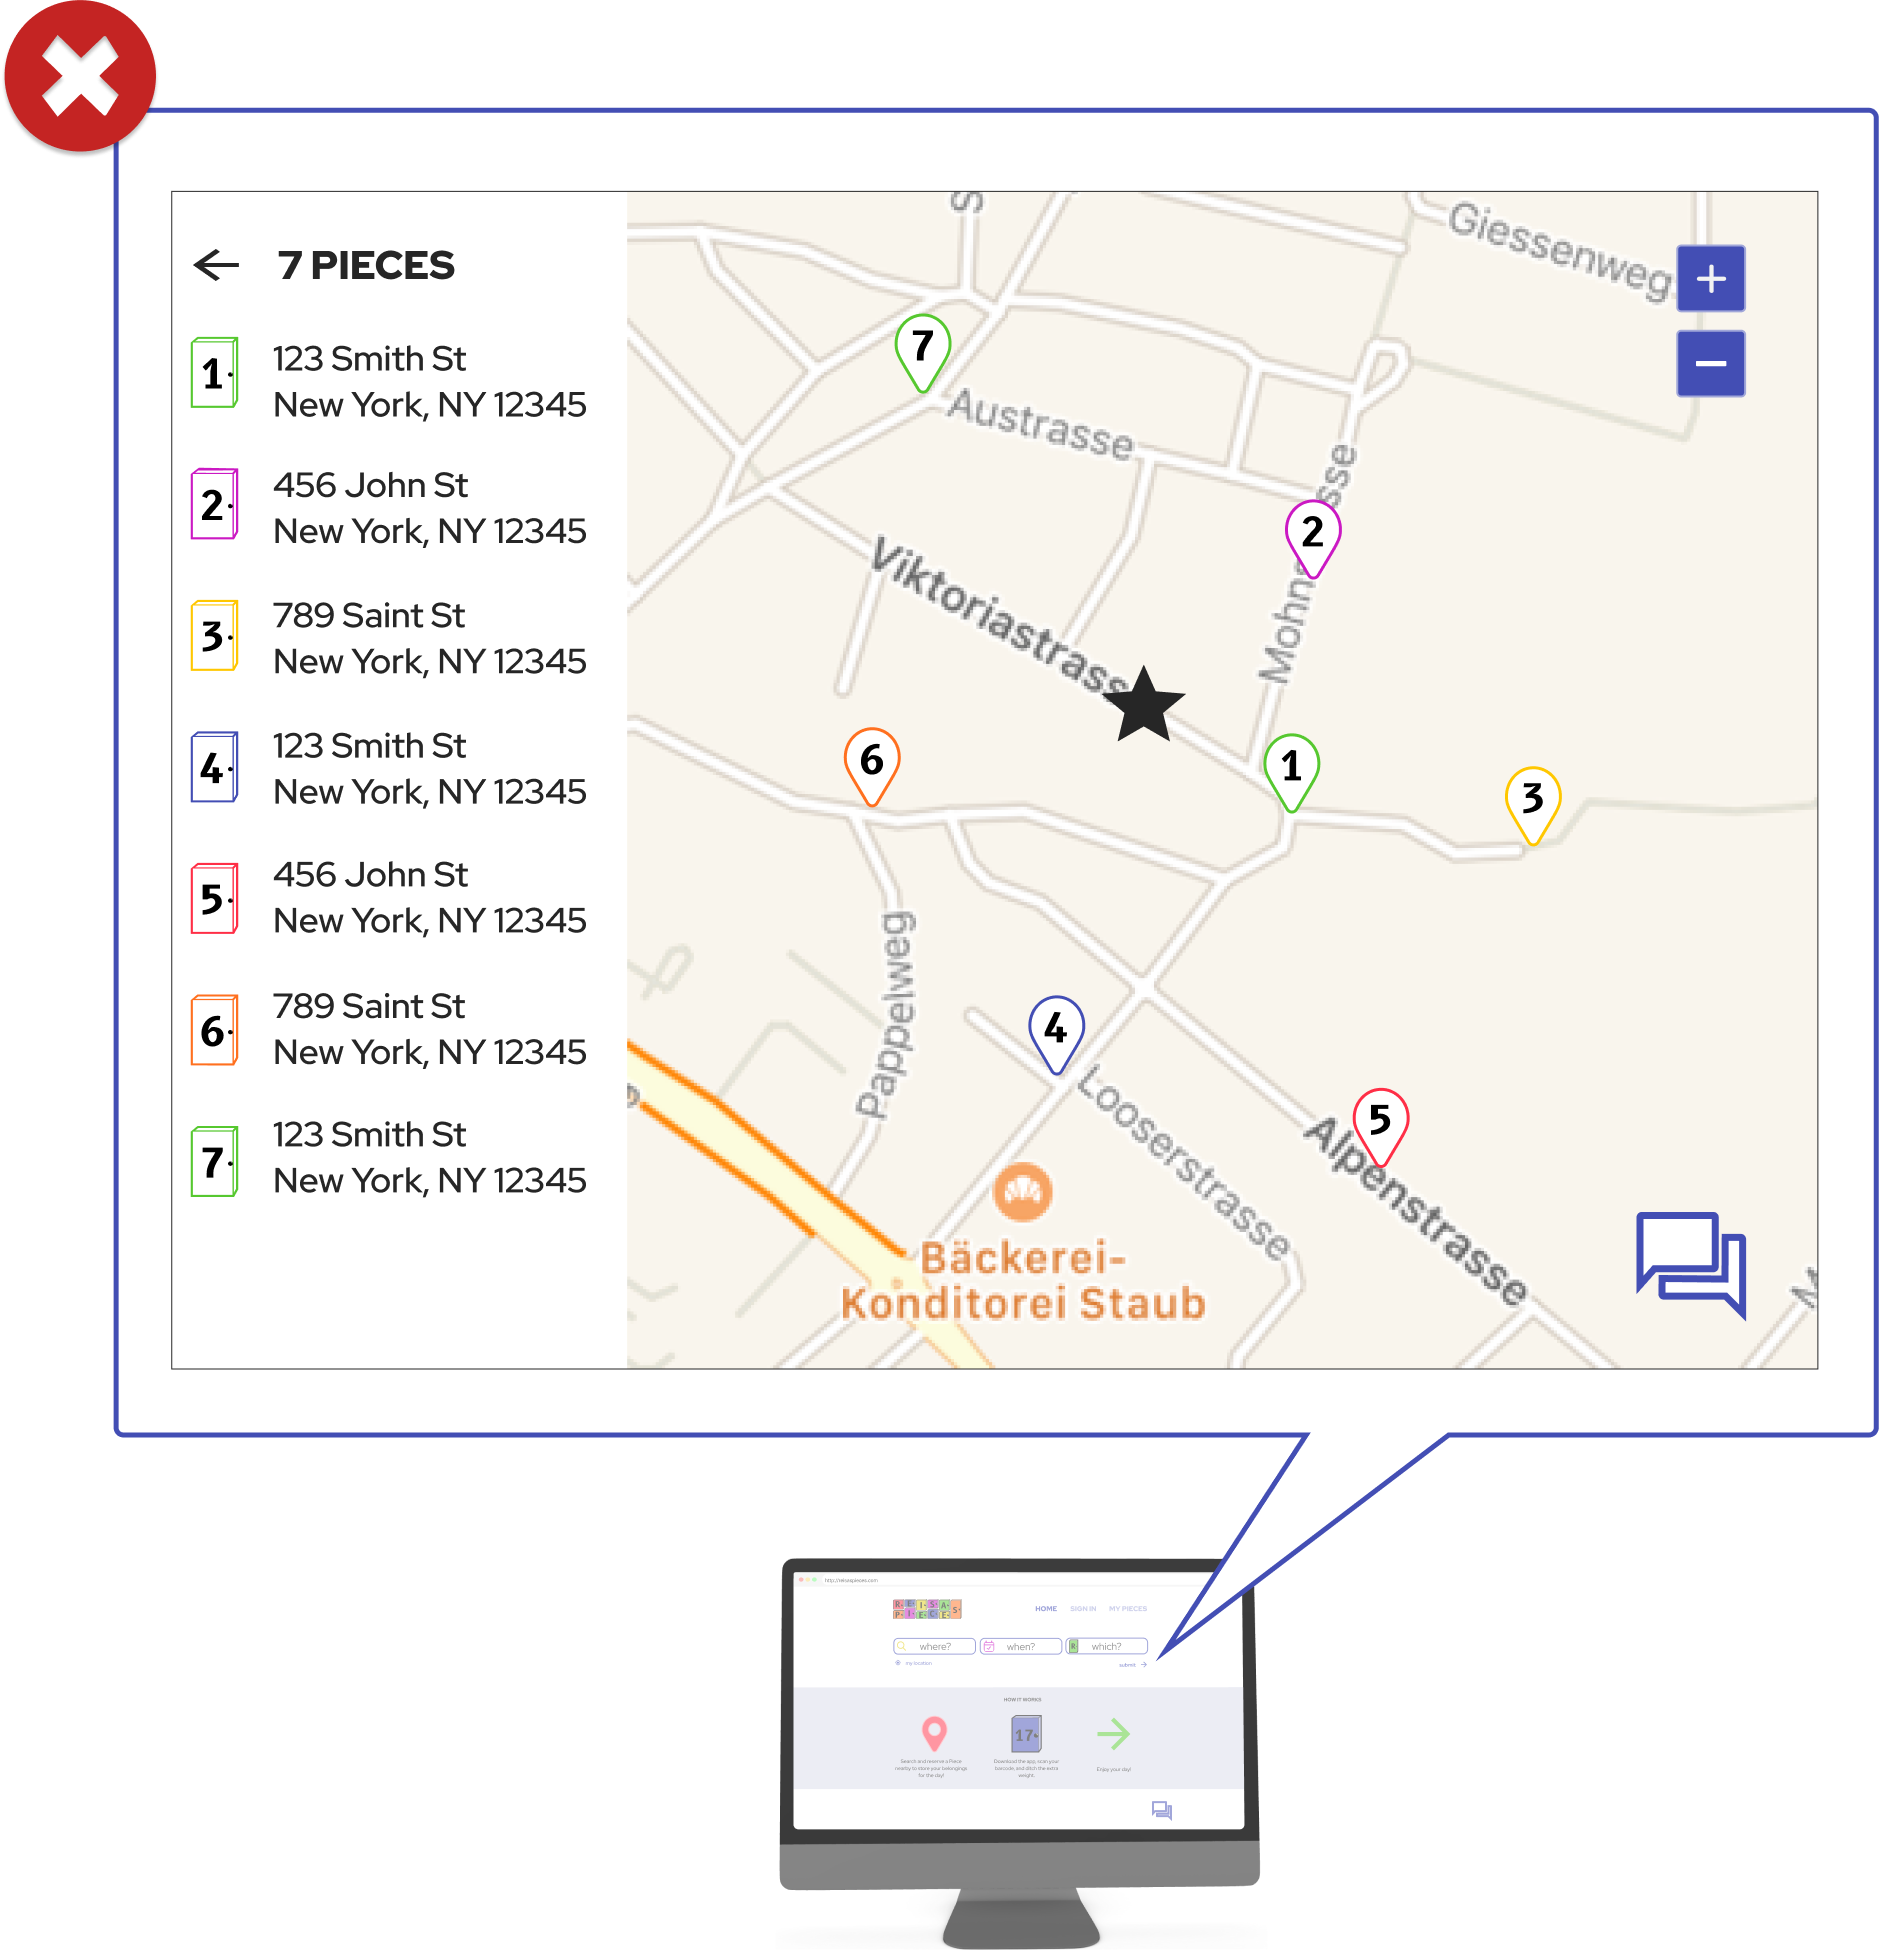
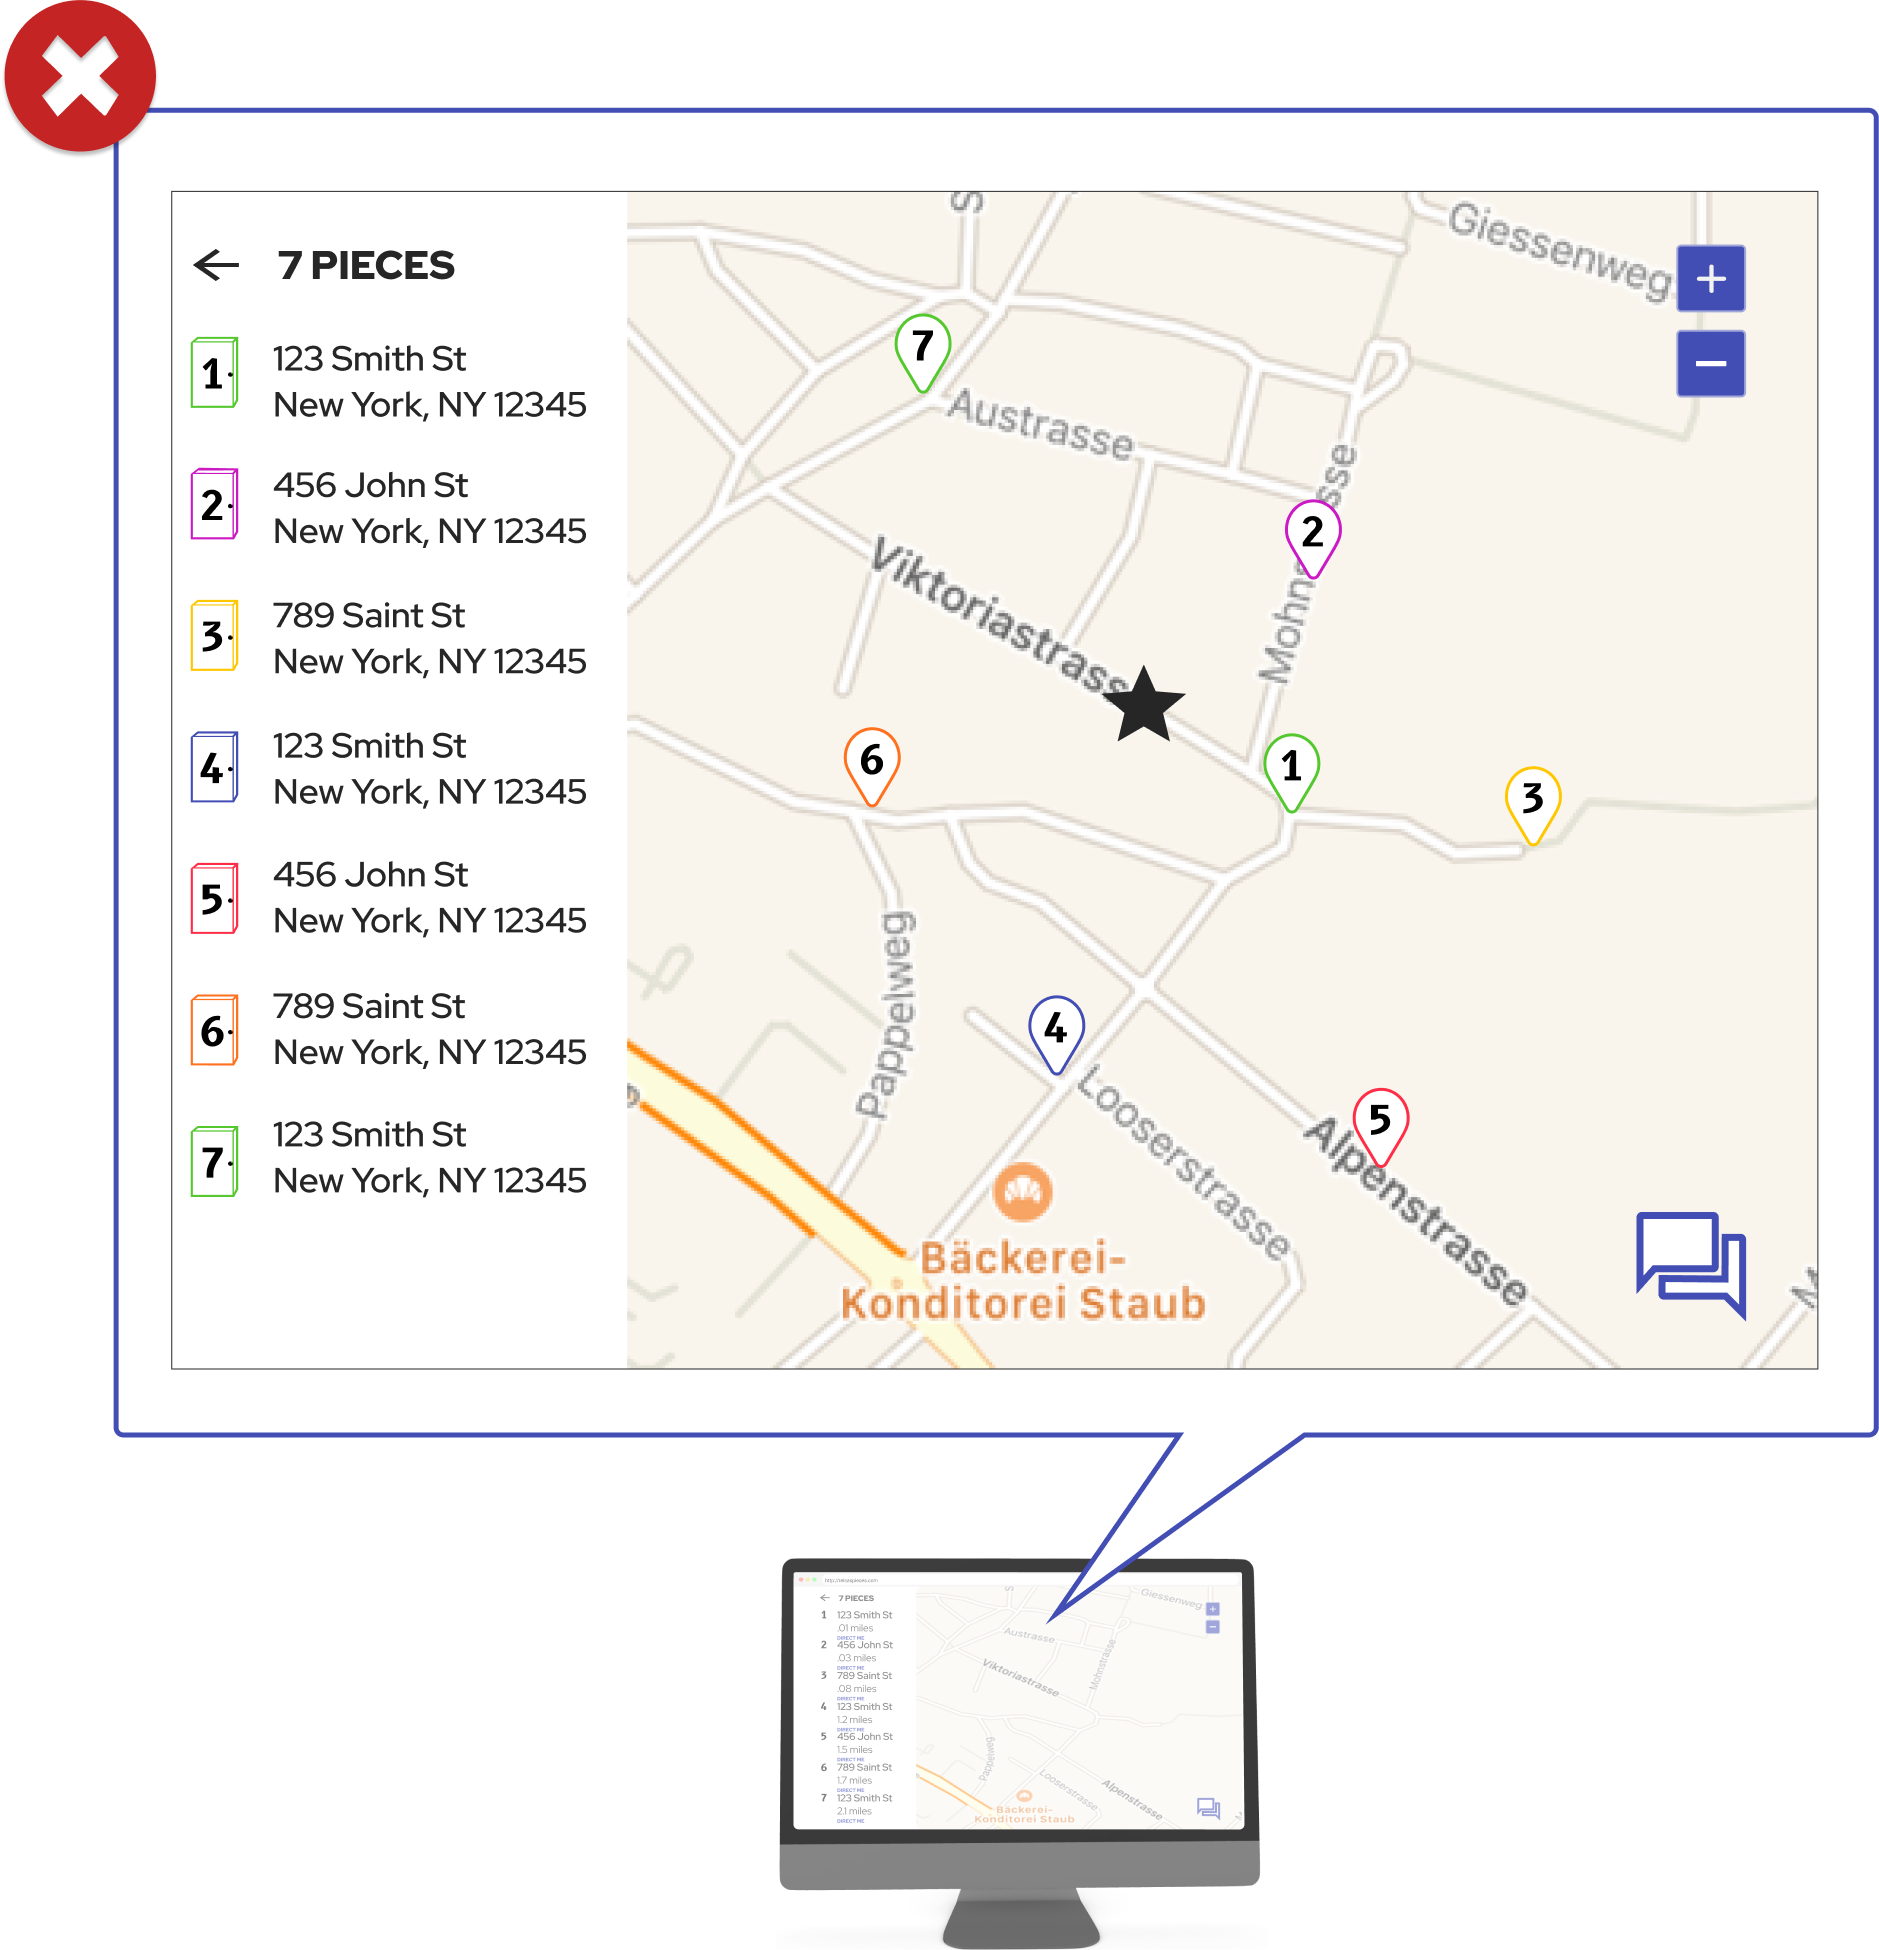
start HFM Draft 2

Changed region(s): [[0.4321, 0.7385, 0.71, 0.9538], [0.7408, 0.7385, 0.7717, 0.7692]]

diff --git a/project2.html b/project2.html
@@ -270,25 +270,76 @@
                         <div class="draftone"><img src="./images/HFM1_E2.png" alt="Two Pointbox Mockup Screens displaying the first preference test performed"></div>
                       </div>
                     </div>
-                  </div>
                 </section>
               </div>
               <section class="HFMsection">
                 <h2>Prototype &amp; Usability Test</h2>
                 <p>Using my updated mockups, I created a prototype in Figma. While each subject was asked to perform the same tasks, there were some slight differences in how each user was asked to onboarded the app (ie Facebook, Username & Password, etc). All three subjects navigated their way through the app with ease for the most part, and had a few useful ideas and suggestions along the way.</p>
-                <div class="HFM"><img src="./images/.png" alt="Pointbox High Fidelity Mockup Screens"></div>
+                <div class="HFM"><img src="./images/RP_HFM.png" alt="Pointbox High Fidelity Mockup Screens"></div>
                 <br>
                 <div class="threecombo">
-                <form action="https://www.figma.com/proto/iO68Puee1F5NsATLdSyXkU/PointBox-Clickable-Prototype?node-id=2%3A4385&viewport=647%2C320%2C0.0968506783246994&scaling=min-zoom" target="_blank"><button class="threecombobtn">prototype</button></form>
-                <form action="https://docs.google.com/document/d/1yQGMEit2hlBfLjmfo6ID0pnleNK4cNnh4Mg27GKgwy8/edit?usp=sharing" target="_blank"><button class="threecombobtn">usability test</button></form>
-                <form action="https://docs.google.com/document/d/1zfCp-LqoA6WD18GxFtwCFY7_LRE0UqkV30BWBUBlpLI/edit?usp=sharing" target="_blank"><button class="threecombobtn">test analysis</button></form>
+                <form action="https://www.figma.com/proto/647RaHGaGxJogdloUYnZ8v/Reisa-s-Pieces-Prototype?node-id=57%3A11960&viewport=733%2C244%2C0.015625&scaling=min-zoom" target="_blank"><button class="threecombobtn">prototype</button></form>
+                <form action="https://docs.google.com/document/d/1uUffwOZf7TOTCeYLKL0JQeEaox8BHdC1XzkV1AR6AzY/edit?usp=sharing" target="_blank"><button class="threecombobtn">usability test</button></form>
+                <form action="https://docs.google.com/document/d/1xOnd-ojkARhK3I6kzC6pQ9wZcA235s9yZ2KVaRmHKwE/edit?usp=sharing" target="_blank"><button class="threecombobtn">test analysis</button></form>
                 </div>
               </section>
               <section class="HFMsection">
                 <h2>High Fidelity Mockups — Final Draft</h2>
-                <p>Using my Style Guide, I began crafting my Wireframes. I decided to work with the onboarding process, searching for and reserving a locker (aka “a piece”), how to set your pin (used to lock and unlock your locker), and how to add time to your reservation. After receiving feedback from a senior designer, I implemented a few suggested revisions to my mockups...</p>
-                <div class="HFM"><img src="./images/.png" alt="Pointbox High Fidelity Mockup Screens"></div>
-                <form action="https://drive.google.com/file/d/1mDfUssjO2wmTLXZ_g8ySLtUHmaVdtTMr/view?usp=sharing" target="_blank"><button class="stylebtn">Final Mockups</button></form>
+                <p>The adjustments I found necessary to make to my mockups, based on my usability test subject's feedback were...</p>
+                <div class="pt1">
+                  <div class="preferenceTesting">
+                    <h4 class=pttitle1>MOBILE LANDING PAGE</h4>
+                    <p class="ptdescription">Prompts the user with an option to register now or later, subsequntially placing the "How It Works" section higher up.</p>
+                  </div>
+                  <br>
+                  <div class="draft1tests">
+                    <div class="draftone"><img src="./images/HFM2_A.png" alt="Two Pointbox Mockup Screens displaying the first preference test performed"></div>
+                  </div>
+                </div>
+                <div class="pt2">
+                  <div class="preferenceTesting">
+                    <h4 class=pttitle2>ONBOARDING</h4>
+                    <p class="ptdescription">Altered the titles on the "sign-in" &amp; "sign-up" pages to make the differentiation clearer.</p>
+                  </div>
+                  <br>
+                  <div class="draft1tests">
+                    <div class="draftone"><img src="./images/HFM2_B.png" alt="Two Pointbox Mockup Screens displaying the first preference test performed"></div>
+                  </div>
+                </div>
+                <div class="pt3">
+                  <div class="preferenceTesting">
+                    <h4 class=pttitle2>SEARCH</h4>
+                    <p class="ptdescription">Eliminated the icons in the search boxes to make the page appear less cluttered.</p>
+                  </div>
+                  <br>
+                  <div class="draft1tests">
+                    <div class="draftone"><img src="./images/HFM2_C1.png" alt="Two Pointbox Mockup Screens displaying the first preference test performed"></div>
+                    <div class="draftone"><img src="./images/HFM2_C2.png" alt="Two Pointbox Mockup Screens displaying the first preference test performed"></div>
+                  </div>
+                </div>
+                <div class="pt2">
+                  <div class="preferenceTesting">
+                    <h4 class=pttitle2>DATE &amp; TIME</h4>
+                    <p class="ptdescription">Developed a universal date &amp; time picker suitable for both  mobile and desktop view.</p>
+                  </div>
+                  <br>
+                  <div class="draft1tests">
+                    <div class="draftone"><img src="./images/HFM2_D1.png" alt="Two Pointbox Mockup Screens displaying the first preference test performed"></div>
+                    <div class="draftone"><img src="./images/HFM2_D2.png" alt="Two Pointbox Mockup Screens displaying the first preference test performed"></div>
+                  </div>
+                </div>
+                <div class="pt3">
+                  <div class="preferenceTesting">
+                    <h4 class=pttitle2>MAP</h4>
+                    <p class="ptdescription">Simplified the color palette and added "Direct Me" links for each location.</p>
+                  </div>
+                  <br>
+                  <div class="draft1tests">
+                    <div class="draftone"><img src="./images/HFM2_E1.png" alt="Two Pointbox Mockup Screens displaying the first preference test performed"></div>
+                    <div class="draftone"><img src="./images/HFM2_E2.png" alt="Two Pointbox Mockup Screens displaying the first preference test performed"></div>
+                  </div>
+                </div>
+                <form action="https://www.figma.com/file/lGlfFl6mzgRHqkyu6fKLcc/Reisa-s-Pieces-HFM-Draft-2?node-id=0%3A1" target="_blank"><button class="stylebtn">Final Mockups</button></form>
               </section>
             <hr>
         <!-- Conclusion -->
